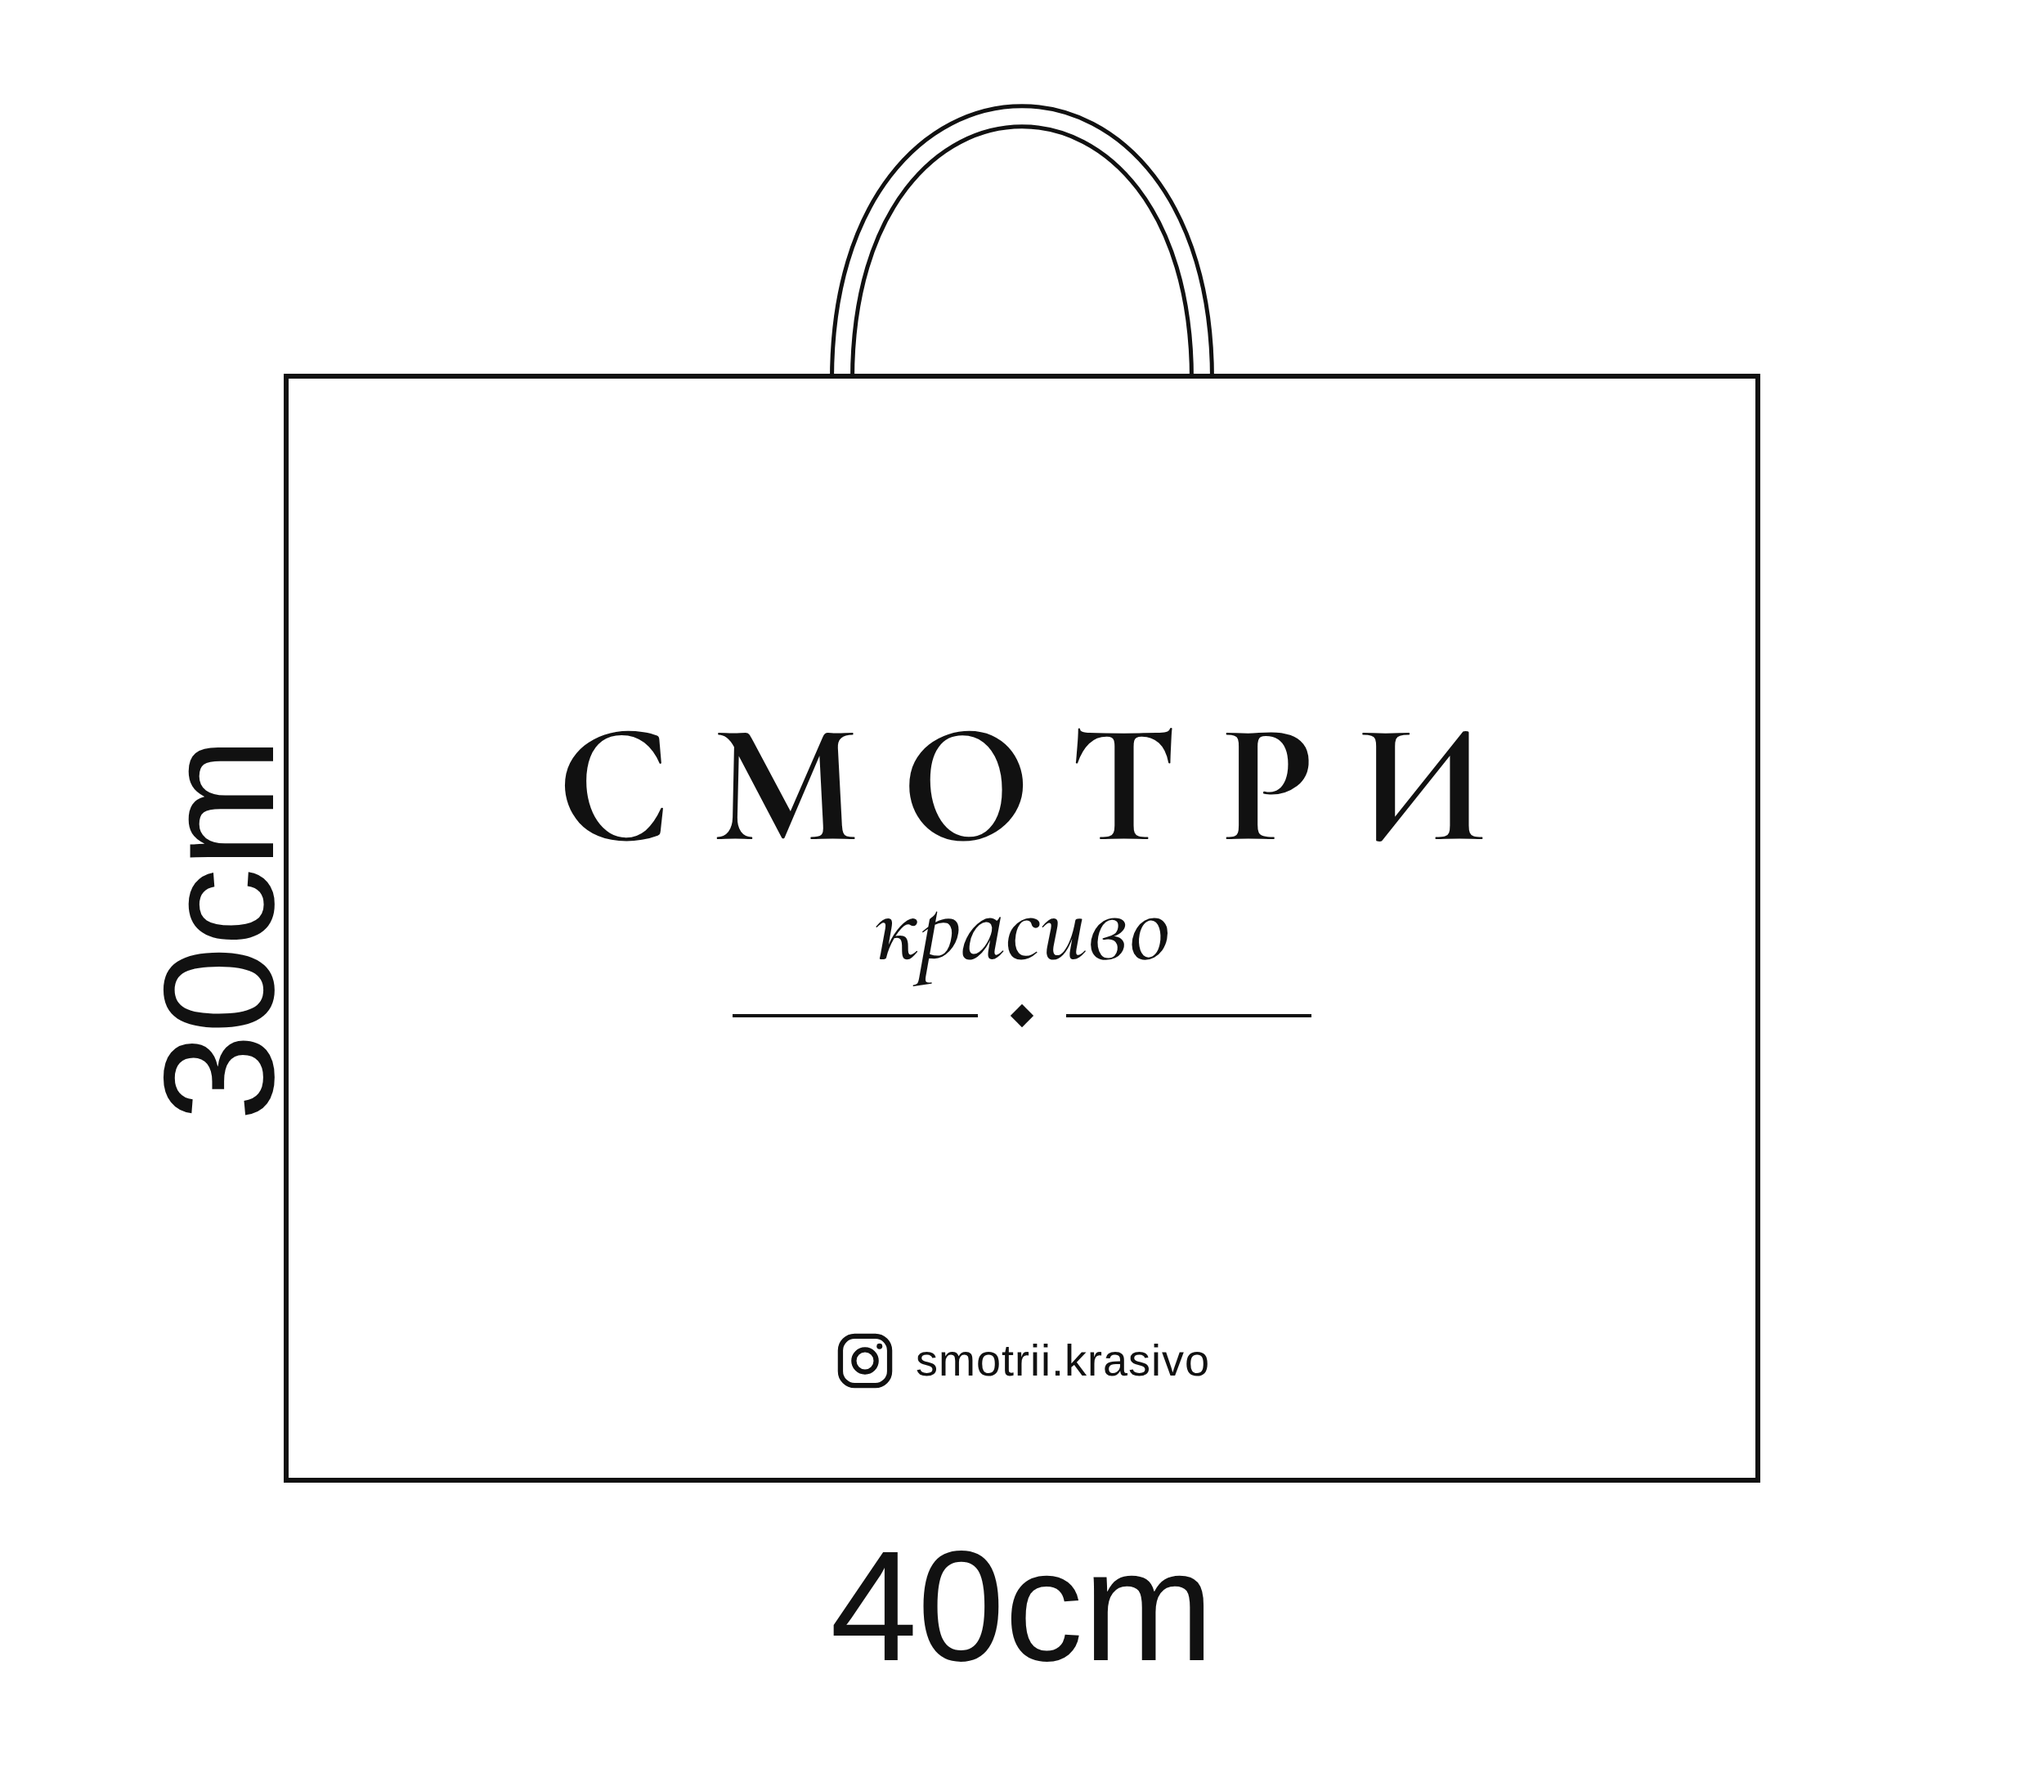
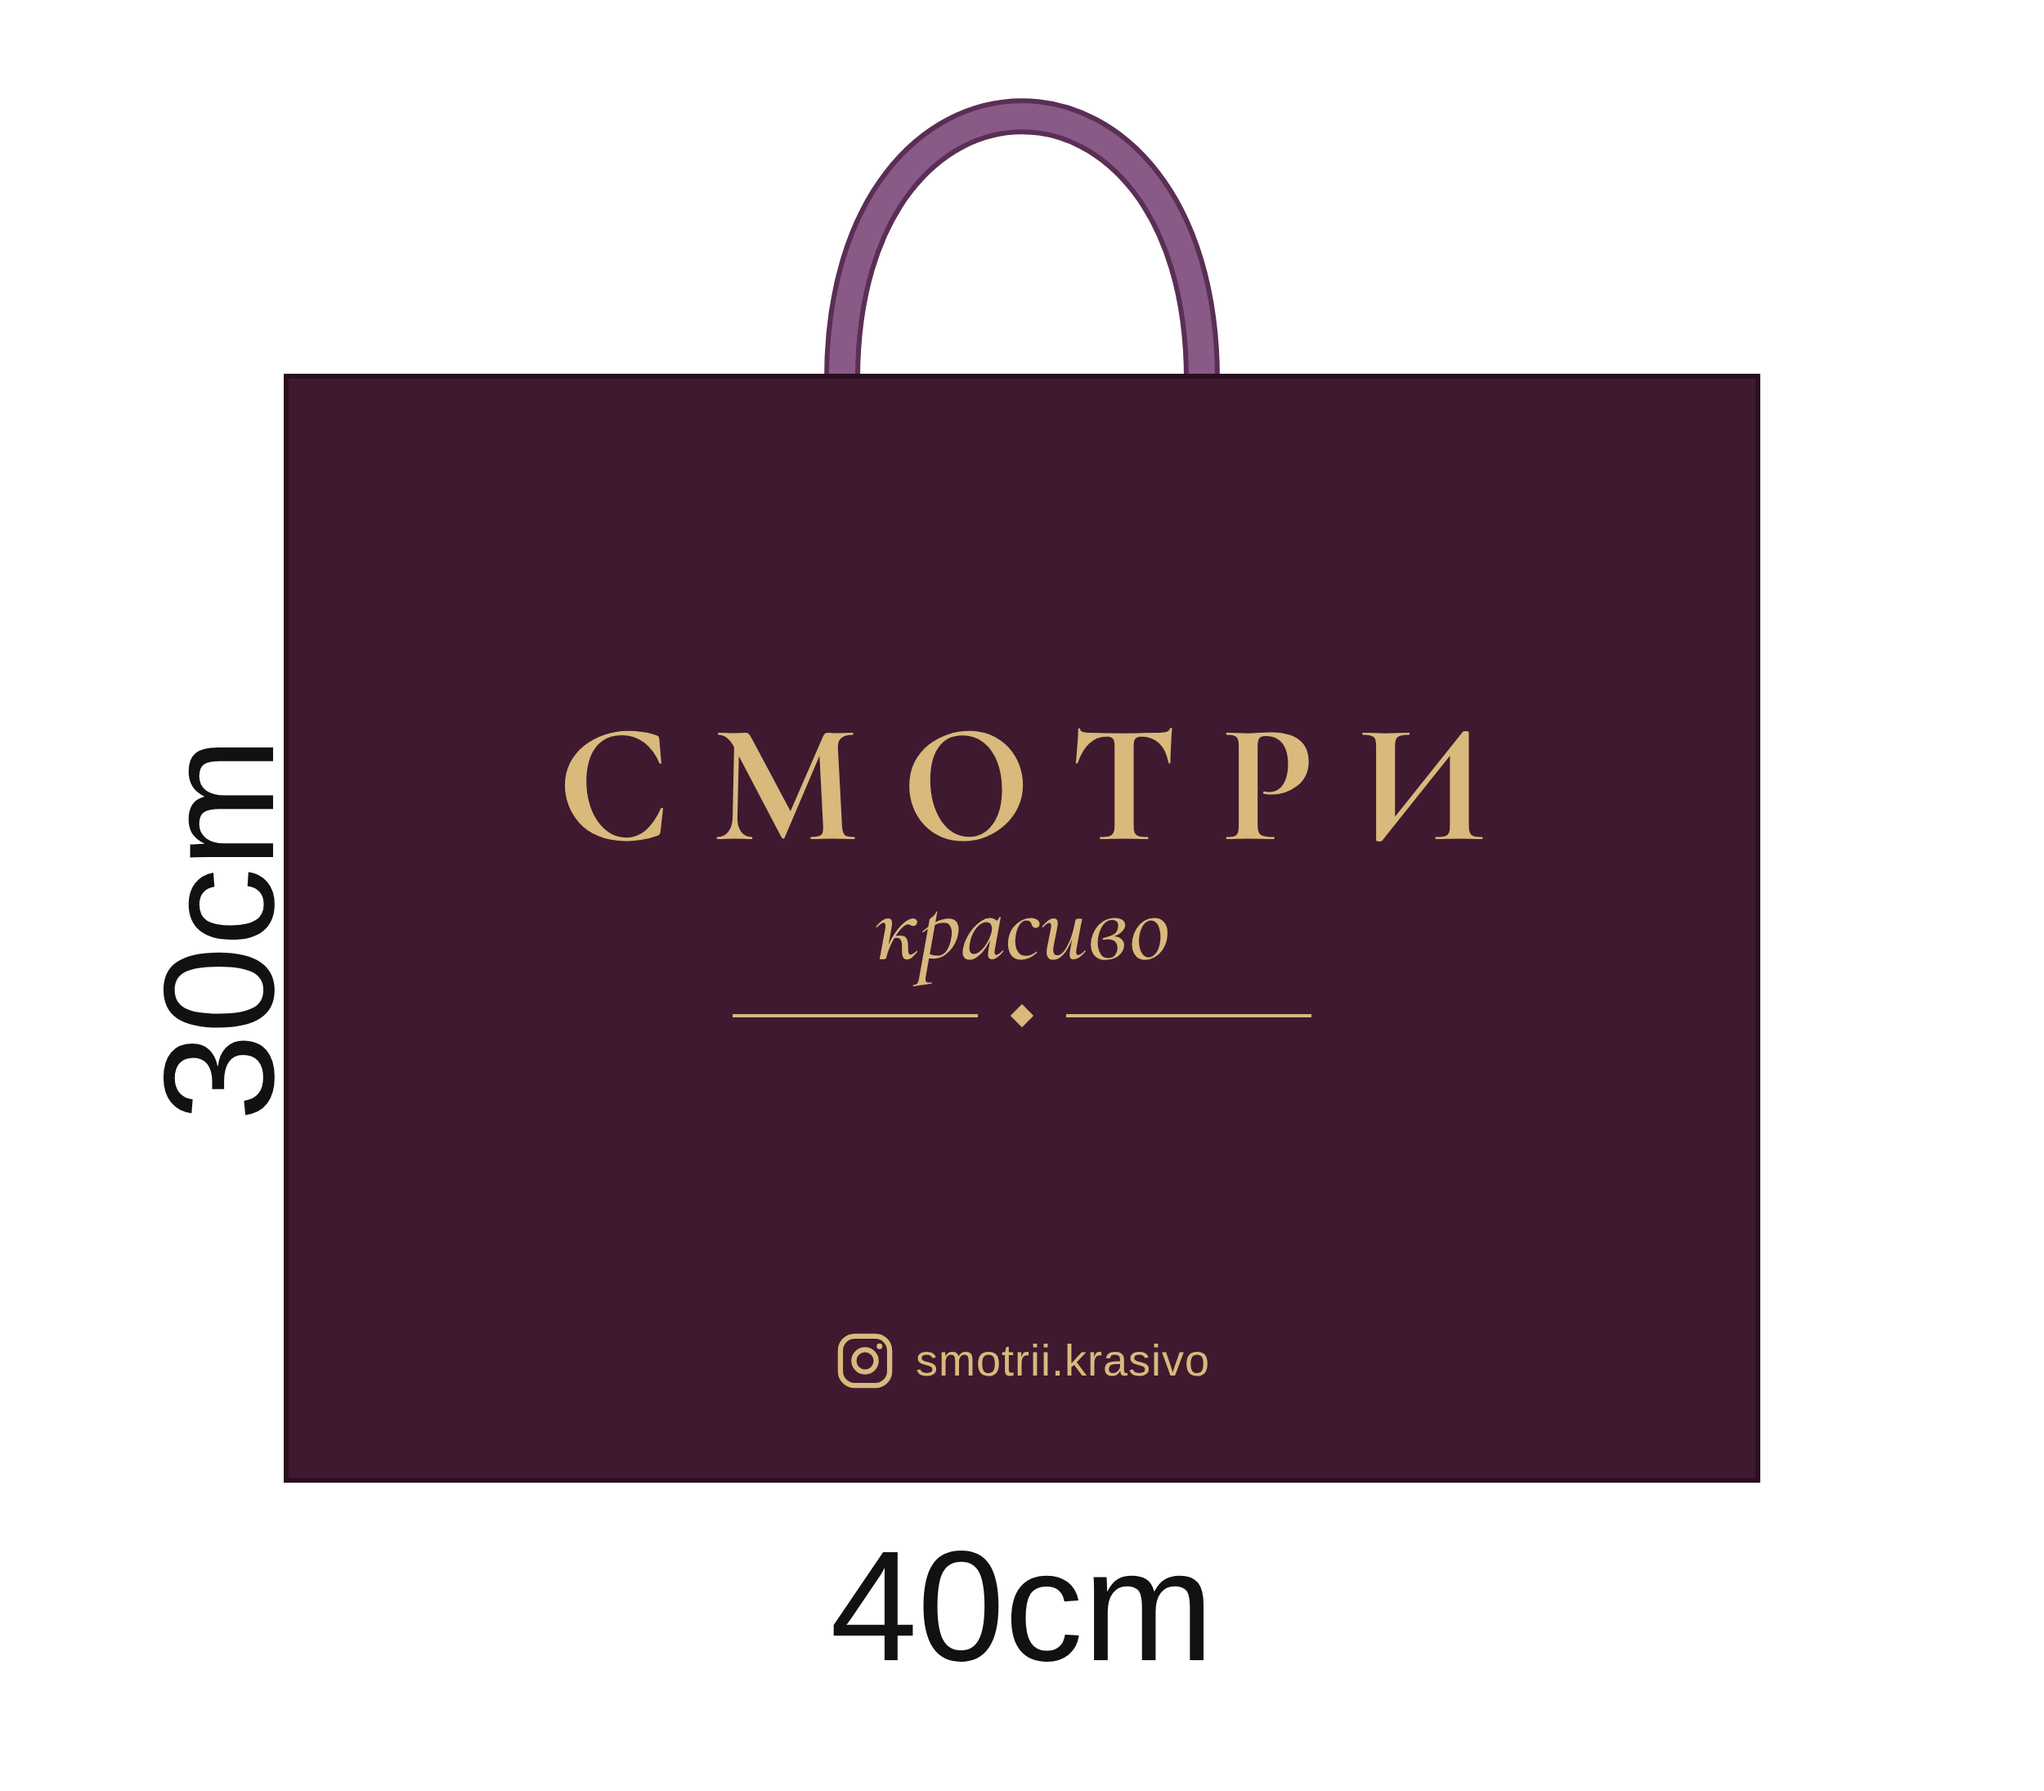
Recolor bag drawings to plum and gold
Claude-Session: https://claude.ai/code/session_01V1S557T1G6yzT4KEcuPHBw

diff --git a/bag-design/drawings.js b/bag-design/drawings.js
@@ -9,7 +9,8 @@ const font = (f) => 'data:font/ttf;base64,' + fs.readFileSync(path.join(FONTS, f
 const SIZES = [{ w: 40, h: 30 }, { w: 50, h: 40 }];
 const BAG_W = 900; // ширина пакета на чертеже, px
 
-const IG = `<svg viewBox="0 0 24 24" fill="none" stroke="#111" stroke-width="2"><rect x="2.5" y="2.5" width="19" height="19" rx="5.5"/><circle cx="12" cy="12" r="4.3"/><circle cx="17.6" cy="6.4" r="1.1" fill="#111" stroke="none"/></svg>`;
+const BAG="#3e1930", GOLD="#d9b97c", RIBBON="#8a5a86";
+const IG = `<svg viewBox="0 0 24 24" fill="none" stroke="${GOLD}" stroke-width="2"><rect x="2.5" y="2.5" width="19" height="19" rx="5.5"/><circle cx="12" cy="12" r="4.3"/><circle cx="17.6" cy="6.4" r="1.1" fill="${GOLD}" stroke="none"/></svg>`;
 
 function html({ w, h }) {
   const s = BAG_W / w, bw = BAG_W, bh = Math.round(h * s);
@@ -24,22 +25,22 @@ function html({ w, h }) {
 body{width:${W}px;height:${H}px;background:#fff;position:relative;font-family:"Liberation Sans",Arial,sans-serif;color:#111}
 svg.lines{position:absolute;inset:0}
 .bag{position:absolute;left:${PADX}px;top:${TOP}px;width:${bw}px;height:${bh}px}
-.logo{position:absolute;left:0;right:0;top:44%;transform:translateY(-50%);text-align:center;font-family:C;color:#111}
+.logo{position:absolute;left:0;right:0;top:44%;transform:translateY(-50%);text-align:center;font-family:C;color:${GOLD}}
 .big{font-weight:700;font-size:${104 * k}px;letter-spacing:${26 * k}px;margin-right:-${26 * k}px;line-height:1}
 .it{font-style:italic;font-weight:500;font-size:${62 * k}px;line-height:1;margin-top:4px}
 .rule{display:flex;align-items:center;justify-content:center;gap:22px;margin-top:18px}
-.rule i{display:block;width:150px;height:2px;background:#111}
-.rule b{display:block;width:10px;height:10px;background:#111;transform:rotate(45deg)}
-.contacts{position:absolute;left:0;right:0;bottom:${Math.round(bh * 0.08)}px;display:flex;justify-content:center;align-items:center;gap:12px;font-size:27px;letter-spacing:.5px}
+.rule i{display:block;width:150px;height:2px;background:${GOLD}}
+.rule b{display:block;width:10px;height:10px;background:${GOLD};transform:rotate(45deg)}
+.contacts{position:absolute;left:0;right:0;bottom:${Math.round(bh * 0.08)}px;display:flex;justify-content:center;align-items:center;gap:12px;font-size:27px;letter-spacing:.5px;color:${GOLD}}
 .contacts svg{width:38px;height:38px}
 .dim{position:absolute;font-size:96px;line-height:1}
 .dw{left:0;right:0;top:${TOP + bh + 30}px;text-align:center}
 .dh{left:${PADX - 40}px;top:${TOP + bh / 2}px;transform:translate(-50%,-50%) rotate(-90deg);white-space:nowrap}
 </style></head><body>
 <svg class="lines" width="${W}" height="${H}">
-  <path d="M ${hx - hw / 2} ${TOP + 2} C ${hx - hw / 2} ${TOP - hh * 1.25}, ${hx + hw / 2} ${TOP - hh * 1.25}, ${hx + hw / 2} ${TOP + 2}" fill="none" stroke="#111" stroke-width="15"/>
-  <path d="M ${hx - hw / 2} ${TOP + 2} C ${hx - hw / 2} ${TOP - hh * 1.25}, ${hx + hw / 2} ${TOP - hh * 1.25}, ${hx + hw / 2} ${TOP + 2}" fill="none" stroke="#fff" stroke-width="10"/>
-  <rect x="${PADX}" y="${TOP}" width="${bw}" height="${bh}" fill="#fff" stroke="#111" stroke-width="3"/>
+  <path d="M ${hx - hw / 2} ${TOP + 2} C ${hx - hw / 2} ${TOP - hh * 1.25}, ${hx + hw / 2} ${TOP - hh * 1.25}, ${hx + hw / 2} ${TOP + 2}" fill="none" stroke="#5a2e55" stroke-width="22"/>
+  <path d="M ${hx - hw / 2} ${TOP + 2} C ${hx - hw / 2} ${TOP - hh * 1.25}, ${hx + hw / 2} ${TOP - hh * 1.25}, ${hx + hw / 2} ${TOP + 2}" fill="none" stroke="${RIBBON}" stroke-width="16"/>
+  <rect x="${PADX}" y="${TOP}" width="${bw}" height="${bh}" fill="${BAG}" stroke="#2a0f20" stroke-width="3"/>
 </svg>
 <div class="bag">
   <div class="logo"><div class="big">СМОТРИ</div><div class="it">красиво</div><div class="rule"><i></i><b></b><i></i></div></div>
